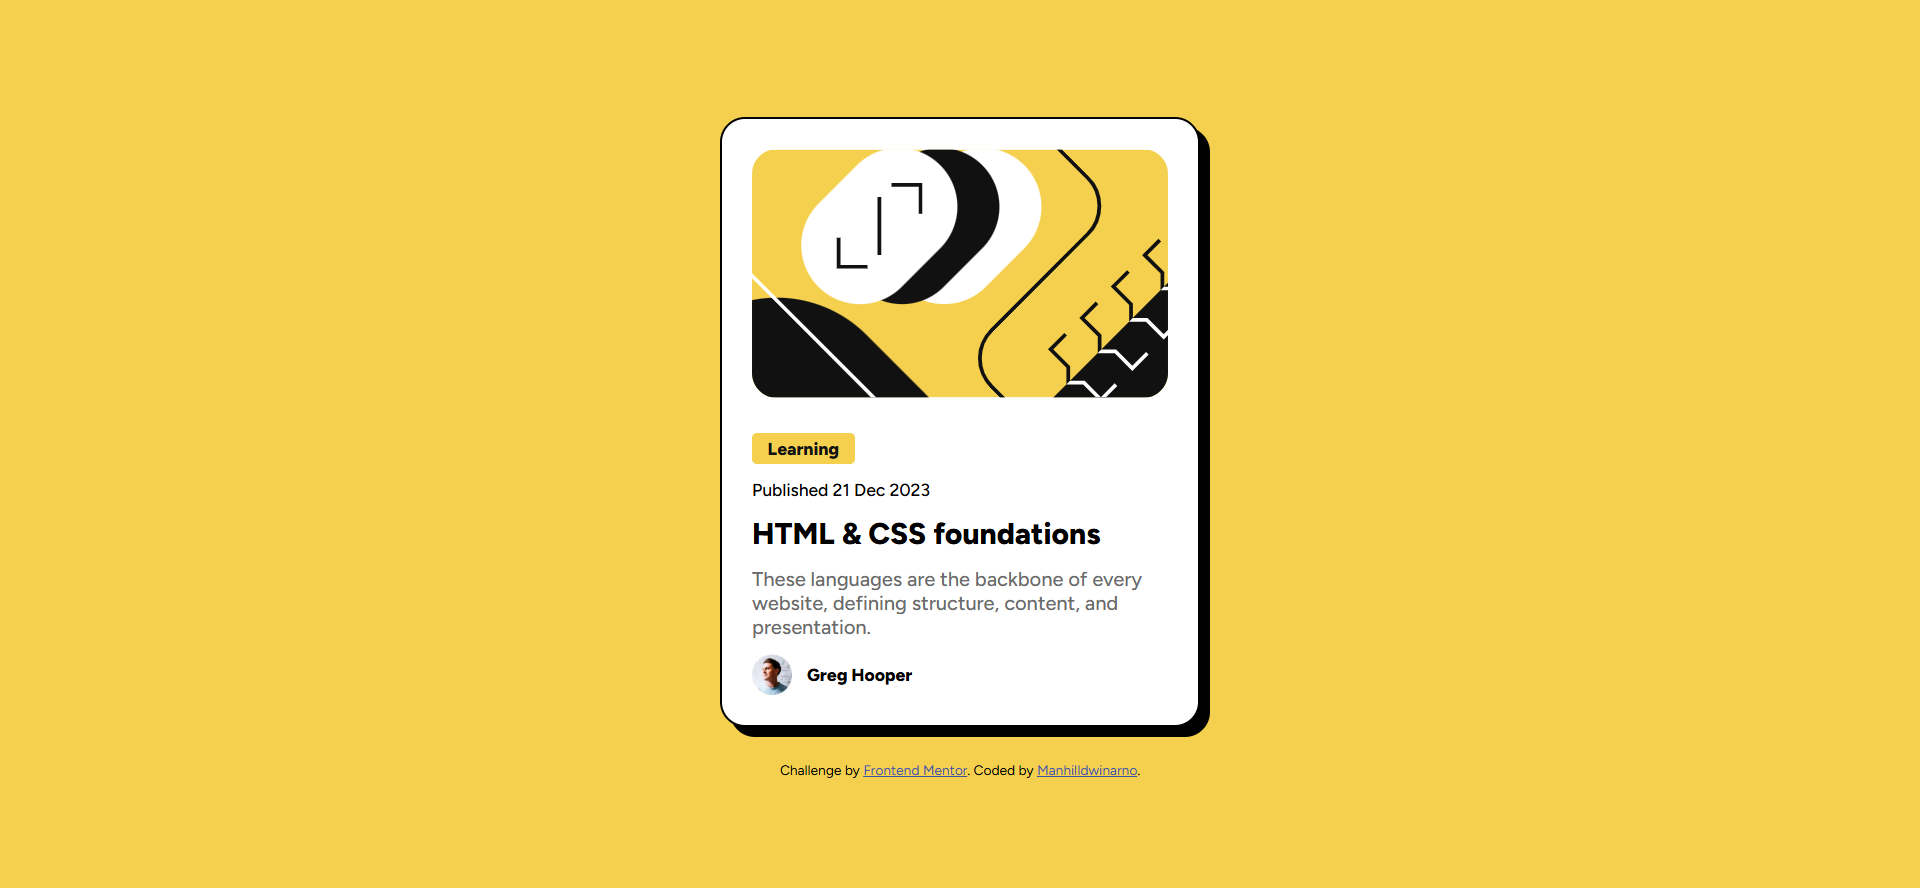
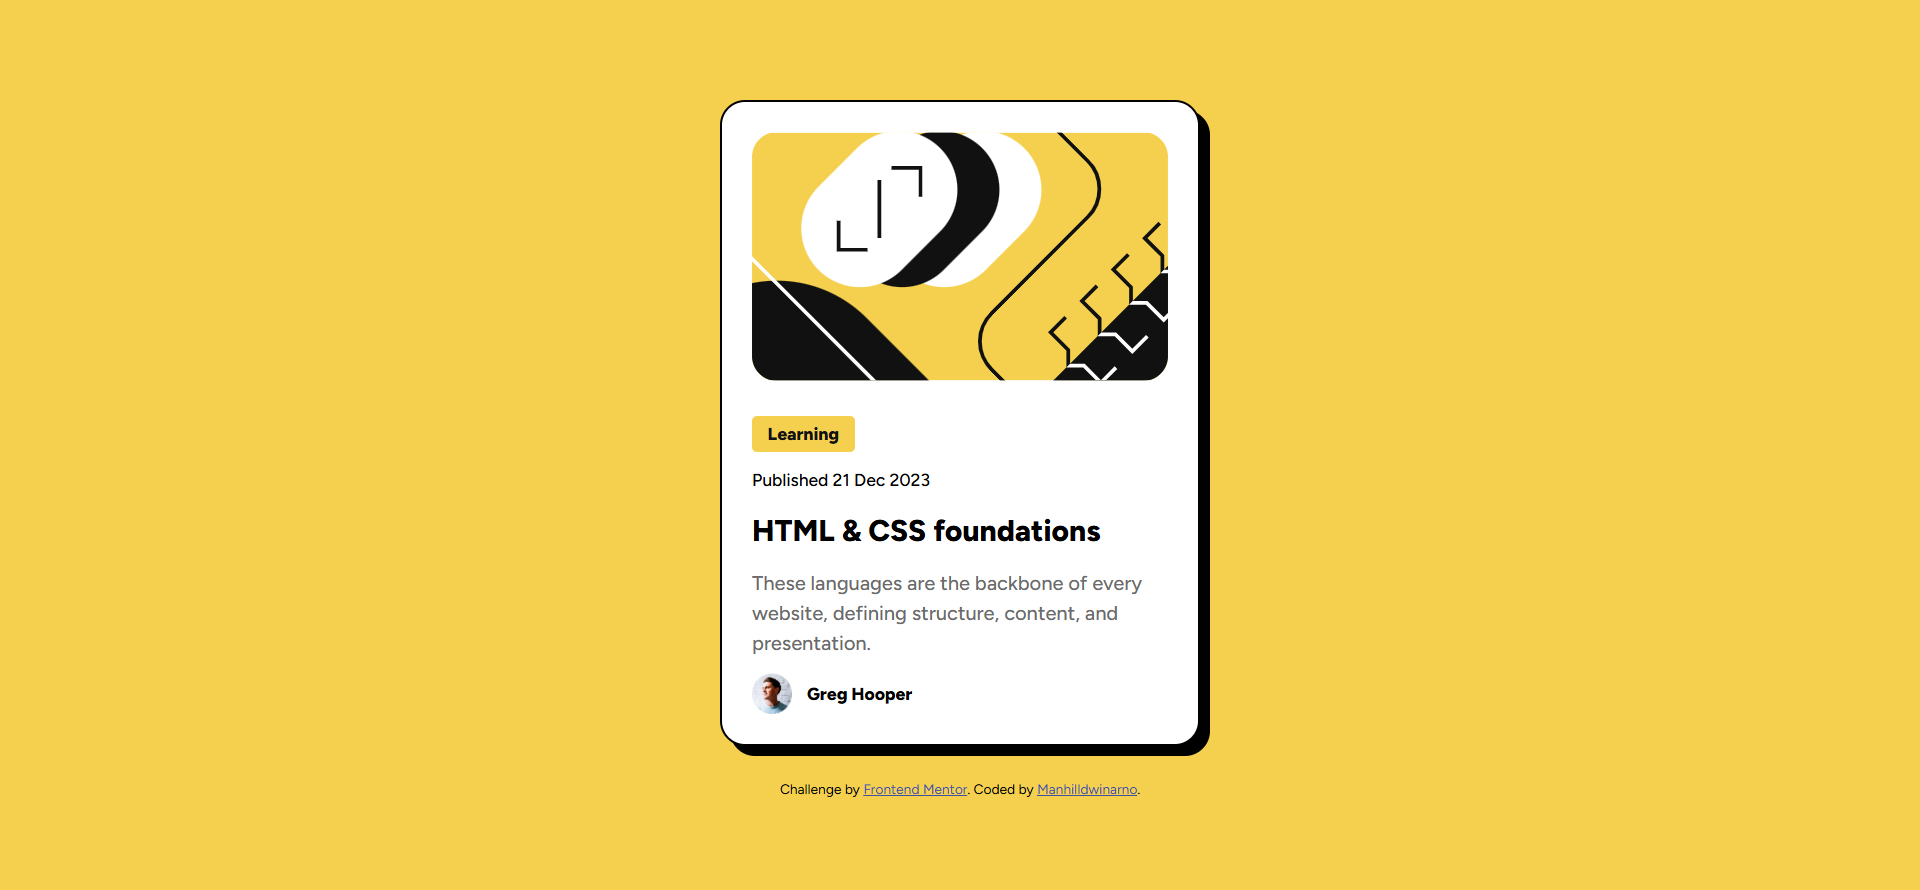
fix solution

Changed region(s): [[0.375, 0.0912, 0.625, 0.9122]]

diff --git a/social-links-profile-main/css/style.css b/social-links-profile-main/css/style.css
@@ -1,0 +1,120 @@
+@import url("https://fonts.googleapis.com/css2?family=Inter:ital,opsz,wght@0,14..32,100..900;1,14..32,100..900&display=swap");
+
+:root {
+  --green: hsl(75, 94%, 57%);
+  --white: hsl(0, 0%, 100%);
+  --grey-700: hsl(0, 0%, 20%);
+  --grey-800: hsl(0, 0%, 12%);
+  --grey-900: hsl(0, 0%, 8%);
+}
+
+* {
+  margin: 0;
+  padding: 0;
+  box-sizing: border-box;
+}
+
+body {
+  font-family: Inter, Arial, sans-serif;
+
+  background-color: var(--grey-900);
+
+  display: flex;
+  flex-direction: column;
+  justify-content: center;
+  align-items: center;
+  min-height: 100vh;
+}
+
+.container {
+  max-width: 400px;
+  width: 100%;
+}
+
+.card {
+  background-color: var(--grey-800);
+
+  width: 100%;
+  padding: 20px;
+  border-radius: 12px;
+
+  display: flex;
+  flex-direction: column;
+  justify-content: center;
+  align-items: center;
+  gap: 20px;
+}
+
+.profile-header {
+  display: flex;
+  flex-direction: column;
+  justify-content: center;
+  align-items: center;
+  gap: 15px;
+}
+
+.profile-header img {
+  width: 100px;
+  border-radius: 50%;
+  margin-bottom: 5px;
+
+  background-size: cover;
+}
+
+.profile-name, .bio, .social-links a {
+  color: var(--white);
+  text-align: center;
+}
+
+.profile-name {
+  font-size: 28px;
+  font-weight: 700;
+}
+
+.location {
+  color: var(--green);
+  text-align: center;
+  font-weight: 600;
+  font-size: 14px;
+}
+
+.bio {
+  font-weight: 400;
+  font-size: 14px;
+}
+
+.social-links {
+  display: flex;
+  flex-direction: column;
+  align-items: center;
+
+  gap: 18px;
+  width: 90%;
+}
+
+.social-links li {
+  background-color: var(--grey-700);
+
+  list-style: none;
+  text-align: center;
+  
+  border-radius: 10px;
+  padding: 10px;
+  width: 100%;
+}
+
+.social-links li a {
+  display: block;
+  text-decoration: none;
+  font-weight: 600;
+}
+
+.attribution {
+  margin-top: 50px;
+
+  font-size: 11px;
+  text-align: center;
+}
+.attribution a {
+  color: hsl(228, 45%, 44%);
+}

diff --git a/social-links-profile-main/index.html b/social-links-profile-main/index.html
@@ -3,30 +3,17 @@
   <head>
     <meta charset="UTF-8" />
     <meta name="viewport" content="width=device-width, initial-scale=1.0" />
-    <!-- displays site properly based on user's device -->
-
     <link
       rel="icon"
       type="image/png"
       sizes="32x32"
       href="./assets/images/favicon-32x32.png"
     />
-
+    <link rel="stylesheet" href="css/style.css">
     <title>Frontend Mentor | Social links profile</title>
-
-    <!-- Feel free to remove these styles or customise in your own stylesheet 👍 -->
-    <style>
-      .attribution {
-        font-size: 11px;
-        text-align: center;
-      }
-      .attribution a {
-        color: hsl(228, 45%, 44%);
-      }
-    </style>
   </head>
   <body>
-    <main>
+    <main class="container">
       <article class="card">
         <header class="profile-header">
           <img src="assets/images/avatar-jessica.jpeg" alt="Profile Photo" />
@@ -49,7 +36,7 @@
       Challenge by
       <a href="https://www.frontendmentor.io?ref=challenge" target="_blank"
         >Frontend Mentor</a
-      >. Coded by <a href="#">Your Name Here</a>.
+      >. Coded by <a href="#">Manhilldwinarno</a>.
     </footer>
   </body>
 </html>
